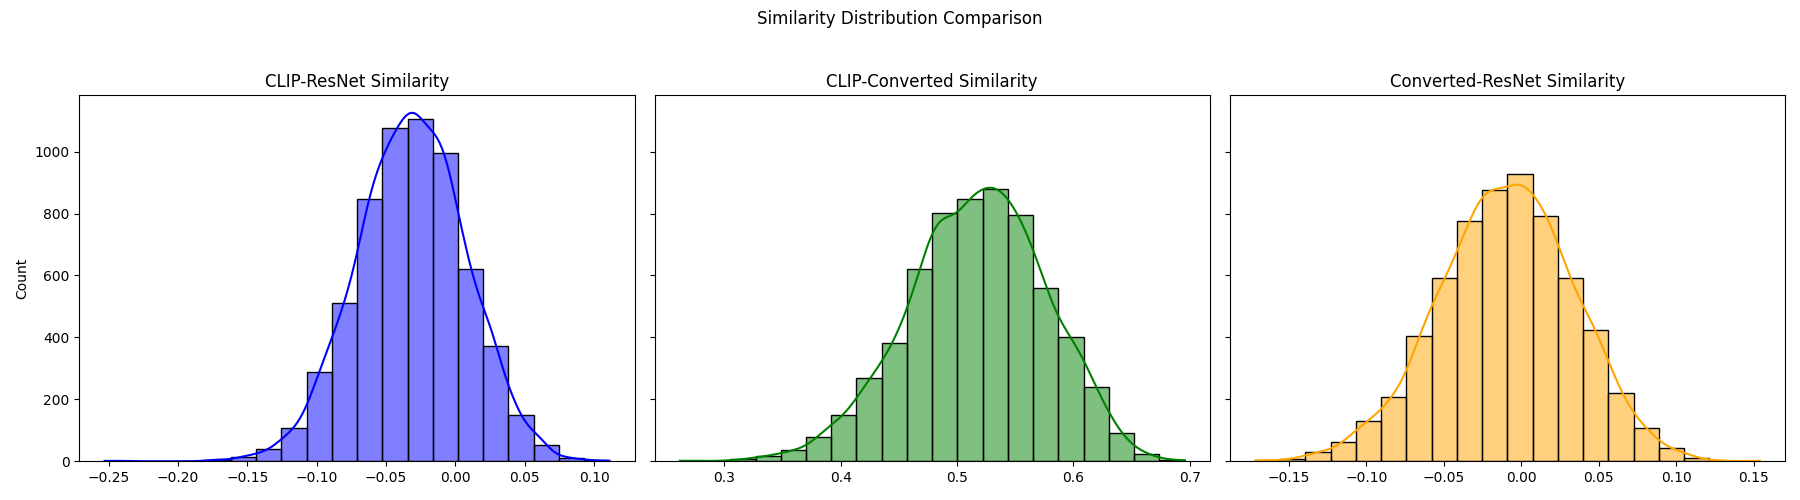
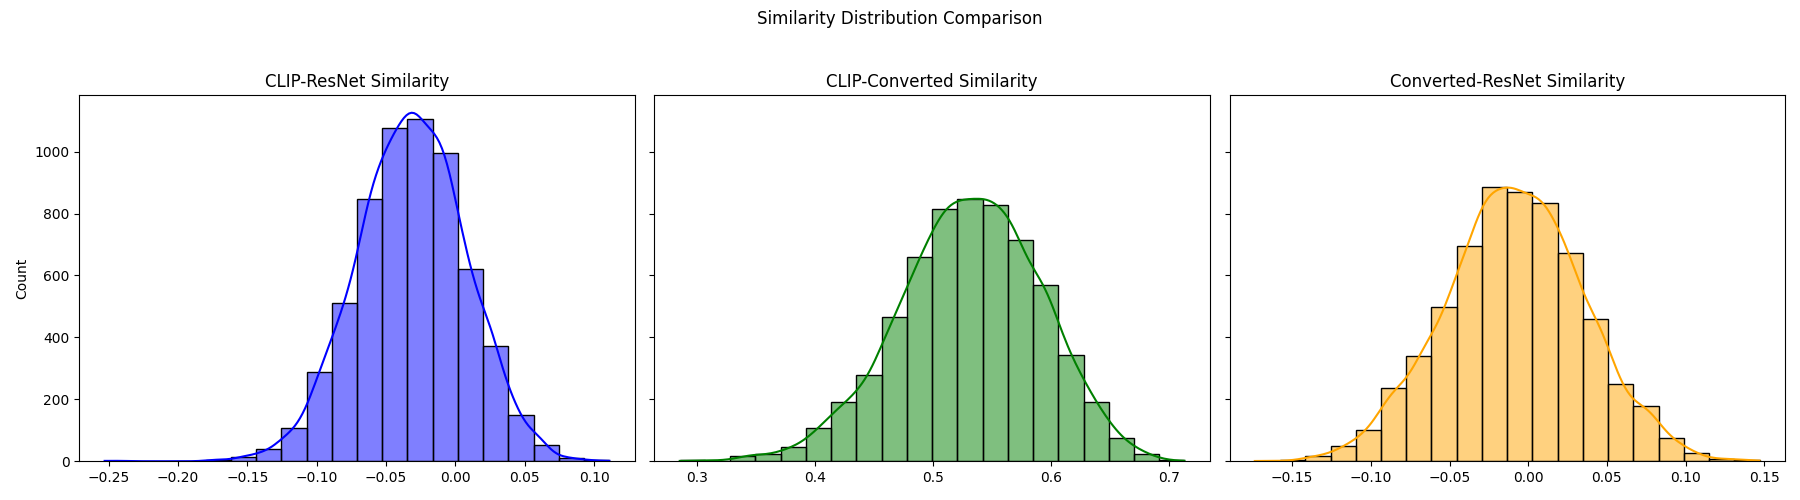
Rename project to UTENA; add new converter classes for linear and attention mechanisms; update main.py for model initialization and increase training epochs

diff --git a/src/clip_align/converter.py b/src/clip_align/converter.py
@@ -1,5 +1,21 @@
 import torch
 import torch.nn as nn
+import torch.nn.functional as F
+
+class Converter_Linear(nn.Module):
+    def __init__(self, input_dim, output_dim):
+        super().__init__()
+        self.input_dim = input_dim
+        self.output_dim = output_dim
+        
+        self.W = nn.Parameter(torch.randn(input_dim, output_dim))
+
+    def forward(self, x):
+        # 计算线性变换
+        path1 = torch.matmul(x, self.W)
+        
+        # Hadamard乘积（逐元素相乘）
+        return path1 * path1
 
 class Converter(nn.Module):
     def __init__(self, input_dim, output_dim, hidden_dim=1024):
@@ -25,3 +41,46 @@ class Converter(nn.Module):
         
         # Hadamard乘积（逐元素相乘）后加偏置
         return path1 * path2 + self.b
+
+class Converter_Att(nn.Module):
+    def __init__(self, input_dim, output_dim, hidden_dim=1024):
+        super().__init__()
+        self.input_dim = input_dim
+        self.output_dim = output_dim
+        
+        # 双头自注意力机制
+        self.head1 = SelfAttentionHead(input_dim, hidden_dim, output_dim)
+        self.head2 = SelfAttentionHead(input_dim, hidden_dim, output_dim)
+        
+        # 偏置参数
+        self.b = nn.Parameter(torch.zeros(output_dim))
+        
+    def forward(self, x):
+        # 计算两个注意力头的输出
+        path1 = self.head1(x)
+        path2 = self.head2(x)
+        
+        # Hadamard乘积后加偏置
+        return path1 * path2 + self.b
+
+class SelfAttentionHead(nn.Module):
+    def __init__(self, input_dim, hidden_dim, output_dim):
+        super().__init__()
+        self.query = nn.Linear(input_dim, hidden_dim)
+        self.key = nn.Linear(input_dim, hidden_dim)
+        self.value = nn.Linear(input_dim, output_dim)
+        self.scale = hidden_dim ** -0.5  # 缩放因子
+
+    def forward(self, x):
+        # 计算Q, K, V
+        Q = self.query(x)
+        K = self.key(x)
+        V = self.value(x)
+        
+        # 计算注意力分数
+        attn_scores = torch.matmul(Q, K.transpose(-2, -1)) * self.scale
+        attn_weights = torch.softmax(attn_scores, dim=-1)
+        
+        # 加权求和
+        context = torch.matmul(attn_weights, V)
+        return context.squeeze(1)  # 移除多余的维度

diff --git a/src/main.py b/src/main.py
@@ -12,7 +12,7 @@ import matplotlib.pyplot as plt
 
 # self defined dataset
 from clip_align.dataset import EmbeddingDataset
-from clip_align.converter import Converter
+from clip_align.converter import Converter, Converter_Att, Converter_Linear
 from clip_align.loss import AlignLoss
 from clip_align.vis import visualize_projection, visualize_similarity
 
@@ -120,6 +120,16 @@ if __name__ == '__main__':
     
     # 创建模型
     converter = Converter(img_model_embedding_size, clip_model_embedding_size).to(device)
+    # converter = Converter_Att(
+    #     img_model_embedding_size,
+    #     clip_model_embedding_size,
+    #     hidden_dim=1024
+    # ).to(device)
+    # converter = Converter_Linear(
+    #     img_model_embedding_size,
+    #     clip_model_embedding_size
+    # ).to(device)
+    print(f"Parameter Count: {sum(p.numel() for p in converter.parameters())/1e6:.2f}M")
     align_loss = AlignLoss().to(device)
     optimizer = torch.optim.AdamW(
         converter.parameters(), 
@@ -128,7 +138,7 @@ if __name__ == '__main__':
     )
     scheduler = torch.optim.lr_scheduler.CosineAnnealingLR(optimizer, T_max=100)
     # 训练模型
-    num_epochs = 30
+    num_epochs = 100
     for epoch in range(num_epochs):
         converter.train()
         running_loss = 0.0

diff --git a/README.md b/README.md
@@ -1,1 +1,1 @@
-# clip-align
+# UTENA: Unified Text-Embedding Network Aligner
